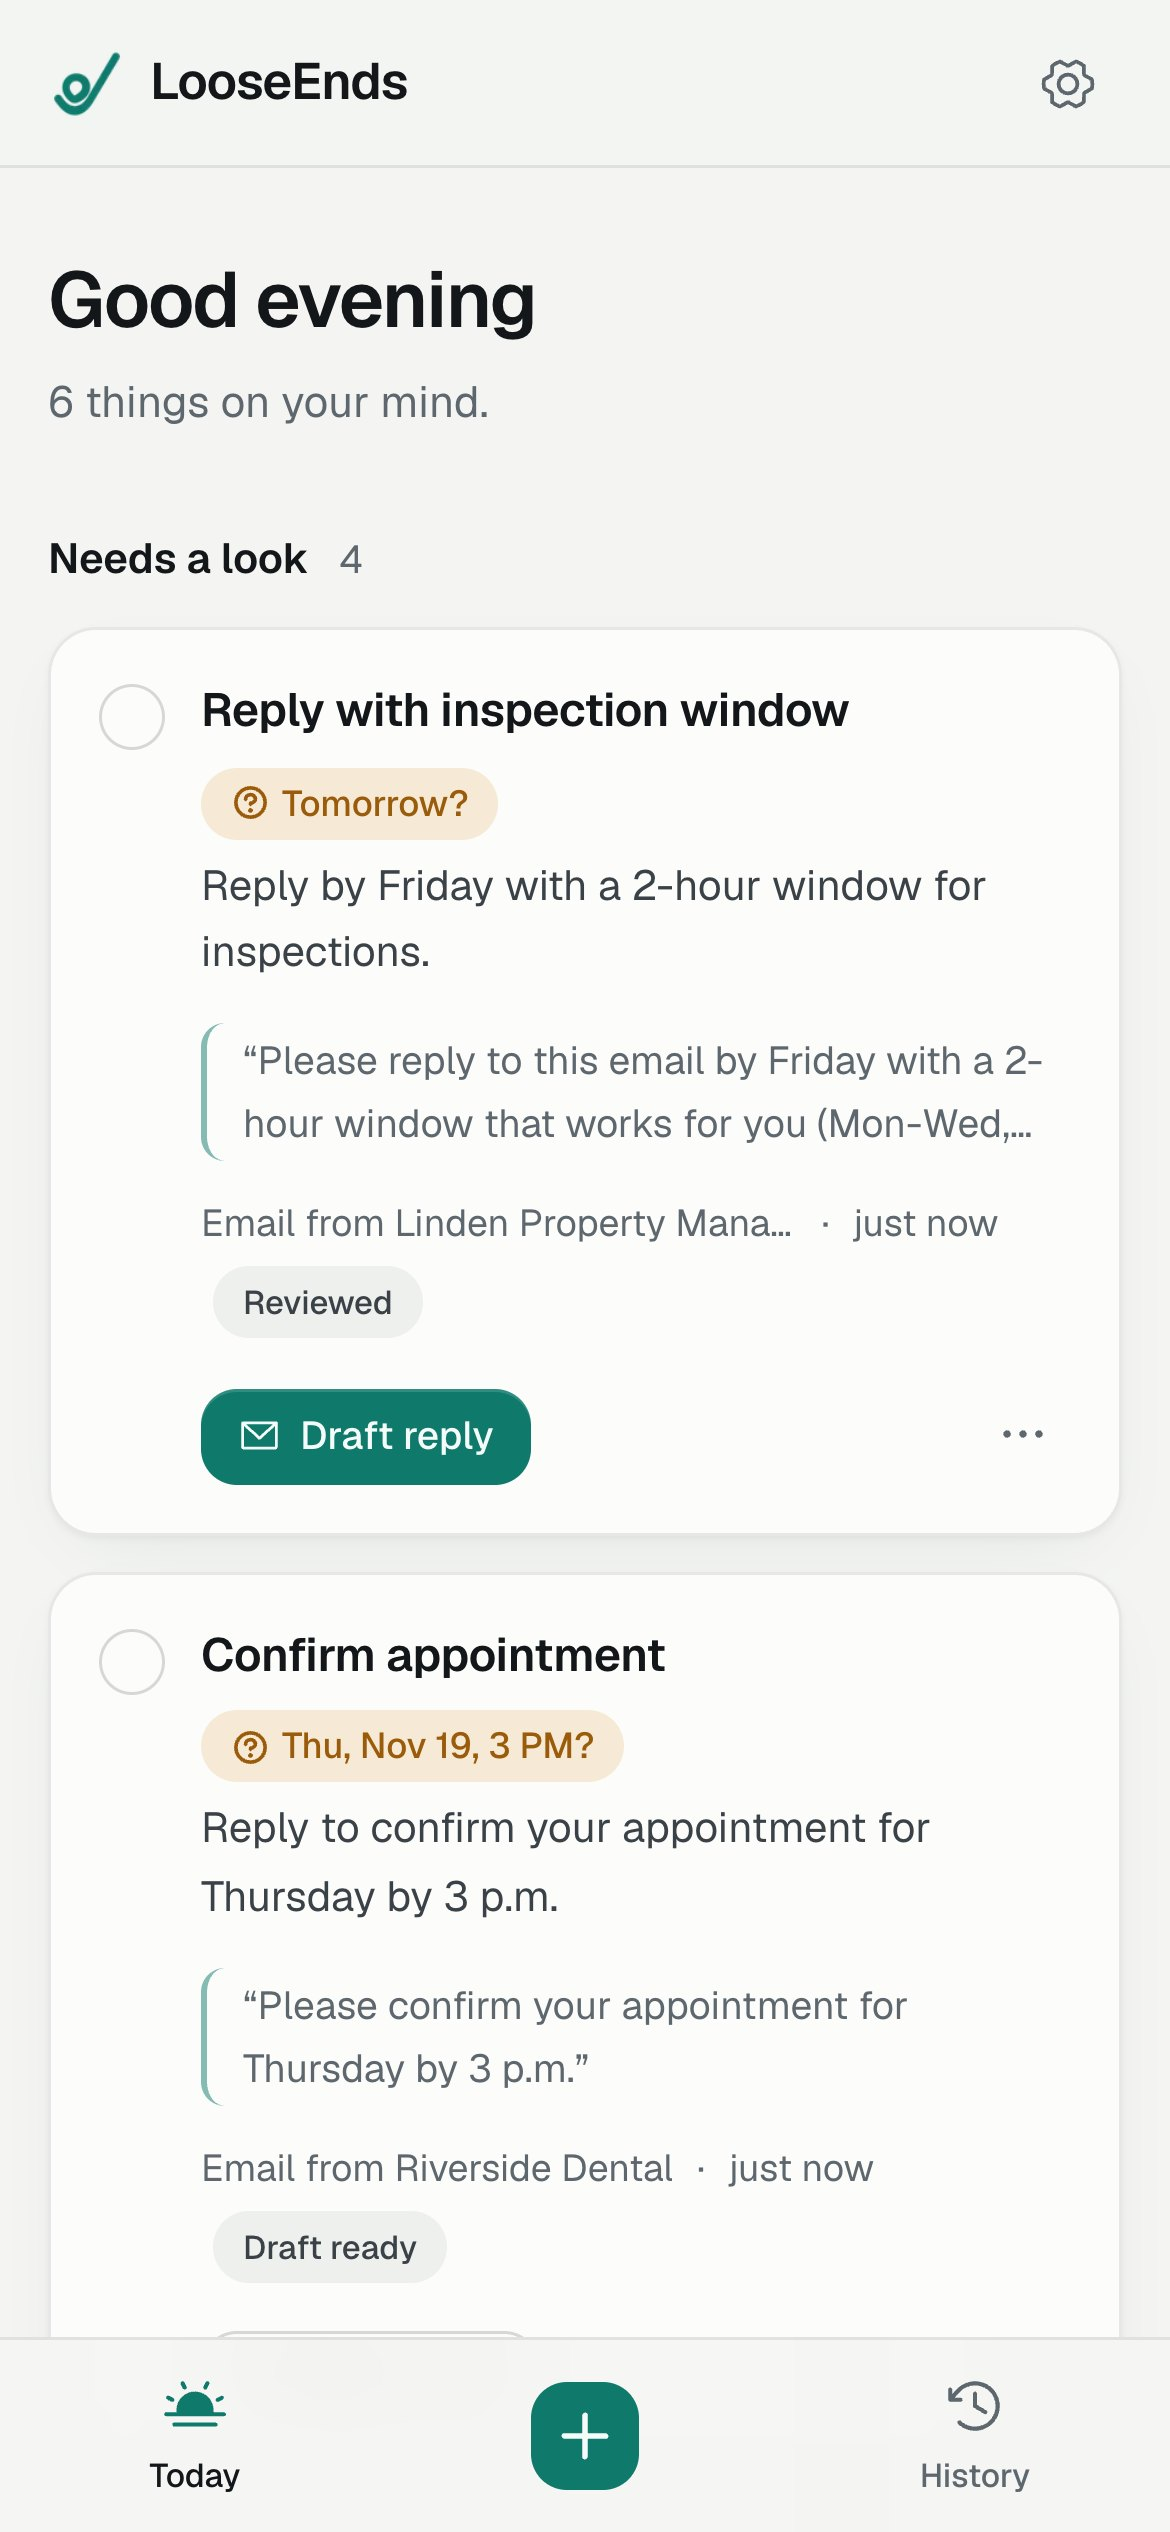
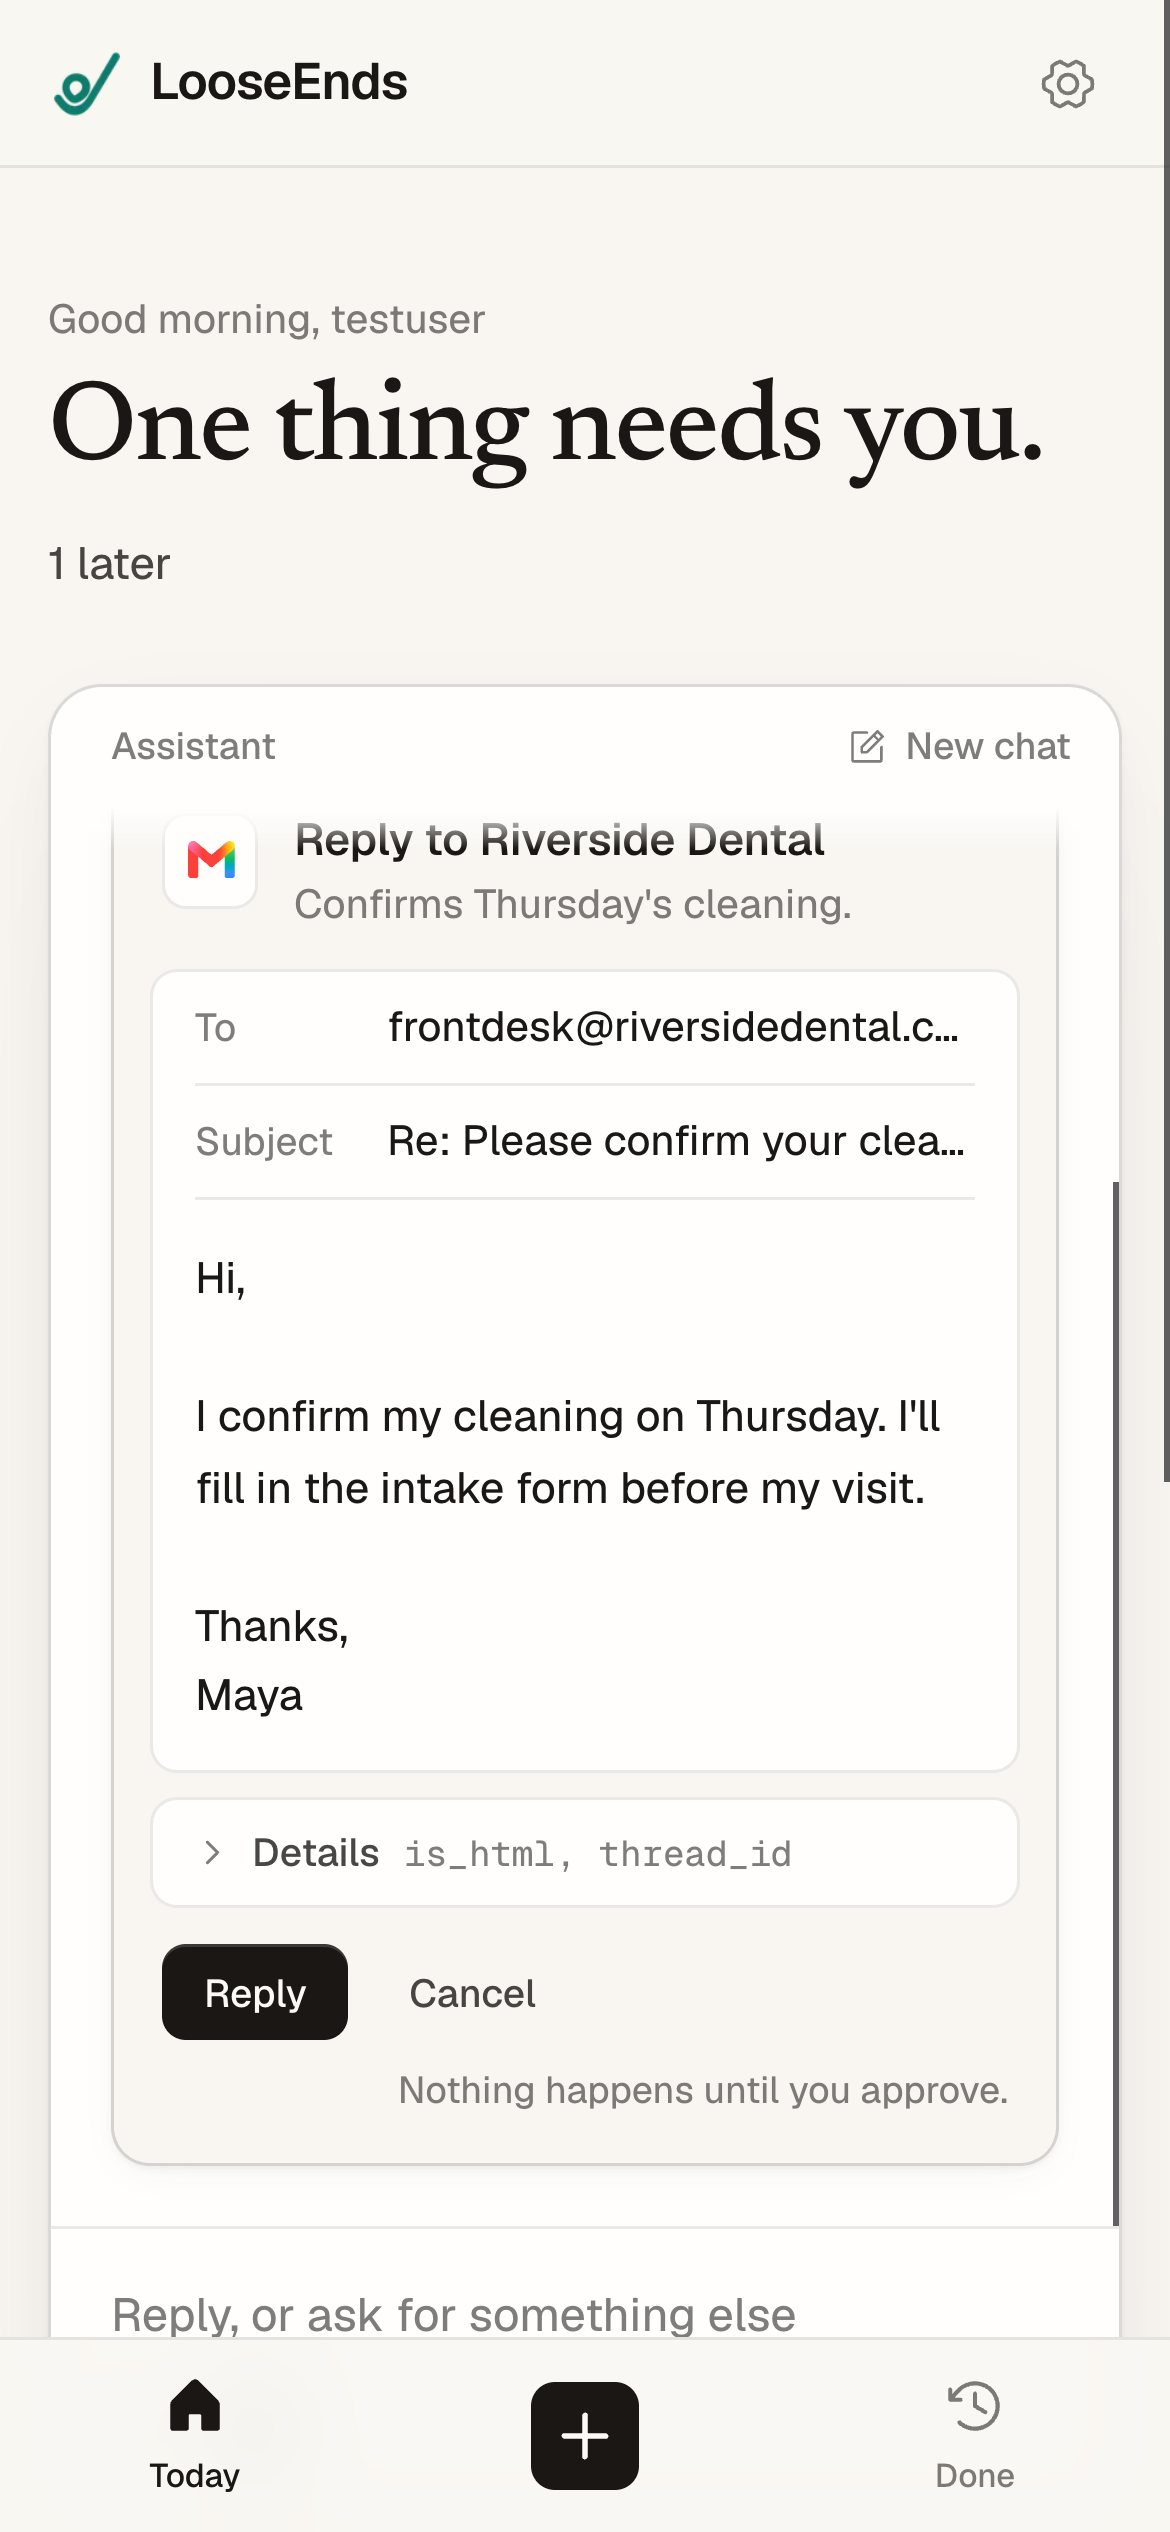
Docs and CI: README for the agent and eleven apps, fresh screenshots, AGENTS.md updates, GitHub Actions lint/build/tsc

diff --git a/README.md b/README.md
@@ -1,10 +1,10 @@
 # LooseEnds
 
-![LooseEnds: a short list of what to do, pulled from your messages, with a reply drafted and nothing sent](docs/images/hero.jpg)
+![LooseEnds: the assistant has drafted a reply from your inbox, and it waits for your approval](docs/images/agent.jpg)
 
 **The assistant for the everyday admin that slips through the cracks.**
 
-Paste an email, a text, a screenshot or a PDF. LooseEnds finds what you actually have to do, shows you the exact sentence it came from, and gets the next step ready: a reply to send, an event for your calendar, or a reminder. You stay in control. LooseEnds never sends, books, pays or deletes anything on its own.
+Paste an email, a text, a photo or a PDF, or connect Gmail. LooseEnds finds what you actually have to do, shows you the exact sentence it came from, and gets the next step ready: a reply, a calendar event, a reminder, or an action in one of your apps. Nothing is sent, posted, changed or deleted until you approve it.
 
 It's built for the small stuff that piles up:
 
@@ -12,56 +12,43 @@ It's built for the small stuff that piles up:
 - **Young professionals**: scheduling back-and-forth, renewals, service follow-ups.
 - **Everyone else**: appointments, returns, bills, bookings, the letter on the counter.
 
-Sign in with publik and drop in your first message. You can connect apps such as Gmail and Google Calendar when you want them.
-
 ## How it works
 
-### 1. Drop it in
-Paste a message, attach a screenshot or a PDF, or drag it onto the box. If you don't have one handy, tap an example.
+### 1. Drop it in, or ask
+Paste a message, attach a screenshot, a phone photo or a PDF, or connect Gmail and ask LooseEnds to check your inbox. Each task has a plain title, the next step, its due date, and the quote it came from.
 
-### 2. Check what it found
-Each task has a plain title ("Confirm appointment"), the next step, its due date, and the quote it came from. Keep it, fix it, or throw it out.
+### 2. Ask the assistant
+Type what you want in plain words: "What needs a reply?", "Clear out my inbox", "What's on my calendar this week?", "Reply to Riverside and confirm Thursday". The assistant reads your tasks and the apps you connected, answers, and adds or completes tasks.
 
-![Reviewing what LooseEnds found in a financial aid email](docs/images/review.jpg)
-
-### 3. Get the next step ready
-- **Draft a reply.** It writes a short reply using only what's in the message. Copy it, or open it in your mail app and send it yourself. If the reply needs something only you know, like which time slot works for you, it leaves a clear [blank] instead of guessing.
-- **Prepare a calendar event.** Download an `.ics` file or open it in Google Calendar.
-- **Set a reminder.** It shows up in LooseEnds when it's due, with a browser notification if you allow it.
-
-![A drafted reply that is clearly not sent](docs/images/draft.jpg)
+### 3. Approve what goes out
+When something would change the outside world (send an email, post a message, add an event, create or delete something in an app), the assistant puts an approval card in front of you instead. The card shows the readable parts to check and edit (To, Subject, the message) and, under **Details**, every other value that will be sent: ids, links, numbers and nested data. Nothing happens until you press the button. You can also cancel.
 
 ### 4. Come back tomorrow
-Your list is waiting: what needs a look, what's overdue, what's due this week. Finished and dismissed items move to History, along with a receipt of everything you copied, opened or downloaded.
+Your list is waiting: what needs you now, what's coming later. Finished and dismissed items move to Done, with a receipt of what you sent, copied or downloaded.
 
-![Today, with tasks grouped by what needs attention](docs/images/today.jpg)
+## Connected apps
+
+Connecting apps is optional. LooseEnds can connect **Gmail, Google Calendar, Outlook, Slack, Notion, Google Drive, Google Docs, Google Sheets, GitHub, Linear and Todoist**. Connections are made and held by [Composio](https://composio.dev); you can disconnect any app in Settings.
 
 ## Built to be trusted
 
 - **Every task shows its source.** Tap the quote to see the original message with the exact sentence highlighted.
-- **No invented dates.** "December 3, 2026" is taken as written. "Thursday by 3 p.m." is worked out and shown with a question mark until you confirm it. "Before your visit" is marked *Date unclear*. If a message gives no date, there isn't one.
-- **You approve external actions.** LooseEnds drafts replies and previews connected-app actions before you confirm them.
-- **Messages are data, not commands.** If an email tries to give the AI instructions ("ignore previous instructions and…"), LooseEnds flags it and ignores it.
-- **Duplicates are caught.** Paste the same message twice and it tells you, instead of doubling your list. Similar tasks get a "Merge" suggestion.
-- **Marketing is filtered.** Newsletters and sales emails are recognised as promotions, not obligations.
-- **You control your data.** Your list is stored in LooseEnds' database, with keys encrypted. Delete a task, a message, or everything from Settings.
-
-![The original message with the sentence behind the task highlighted](docs/images/source.jpg)
-
-## Light, dark and phone-sized
-
-LooseEnds follows your system theme and works at any window size.
+- **No invented dates.** "December 3, 2026" is taken as written. "Thursday by 3 p.m." is worked out and shown with a question mark until you confirm it. "Before your visit" is marked *Date unclear*.
+- **You approve external actions, and see all of them.** Approval cards show every argument the action sends, not just the friendly summary.
+- **Messages are data.** Text inside an email can try to give the AI instructions. LooseEnds treats it as content, flags obvious attempts, and can't act outside LooseEnds without your approval.
+- **Duplicates are caught**, and newsletters and sales emails are recognised as promotions, not obligations.
+- **You control your data.** Delete a task, a message, or everything from Settings. Delete everything also disconnects your apps. See the [privacy page](https://looseends-taupe.vercel.app/privacy) and [terms](https://looseends-taupe.vercel.app/terms).
 
 <p>
-  <img src="docs/images/today-dark.jpg" alt="LooseEnds in dark mode" width="68%">
-  <img src="docs/images/mobile.jpg" alt="LooseEnds at phone size" width="28%">
+  <img src="docs/images/gate.jpg" alt="The LooseEnds sign-in page" width="68%">
+  <img src="docs/images/mobile.jpg" alt="LooseEnds on a phone" width="28%">
 </p>
 
 ## AI and pricing
 
-LooseEnds uses **publik API**, so there's no key to paste: sign in with publik, connect your plan, and you're set. Linking your publik account gives $0.05 of free use once (about five AI requests at publik's published price of about $0.01 each); after that, a publik plan pays per use. Prefer your own key? Choose **Use my own key** at sign-in or in Settings; any OpenAI-compatible provider works.
+LooseEnds uses **publik API**: sign in with publik and AI runs on your own publik plan, so there's no key to paste. A new publik account includes $0.05 of free use; after that you need a publik plan (from $8/month), or choose **Use my own key** at sign-in or in Settings (any OpenAI-compatible provider).
 
-Your content is sent to the AI model only to find tasks and write drafts. publik does not train on requests.
+Your content is sent to the AI model through publik (or to your own provider) only to find tasks, write drafts and answer you. publik does not train on requests.
 
 ## Open LooseEnds
 
@@ -69,14 +56,29 @@ Open [LooseEnds](https://looseends-taupe.vercel.app) in your browser or use **Ge
 
 ## For developers
 
-Next.js 16 (App Router), Tailwind CSS v4, Motion, Neon Postgres (PGlite for local development) and publik API (`publik-balanced`). Hosted configuration uses `DATABASE_URL`, `APP_SECRET`, `COMPOSIO_API_KEY`, and `PUBLIK_APP_TOKEN`; see `.env.example`.
+Next.js 16 (App Router), Tailwind CSS v4, Motion, Neon Postgres (PGlite for local development), publik API and Composio. Hosted configuration uses `DATABASE_URL`, `APP_SECRET`, `COMPOSIO_API_KEY` and `PUBLIK_APP_TOKEN`; see `.env.example`.
 
 - `src/lib/server/publik.ts`: Sign in with publik, usage counting and publik API (adapted from publik's reference module).
+- `src/lib/server/gate.ts`, `src/app/api/gate/`: the sign-in gate. A visit only reads it; the session and publik install are created when "Sign in with publik" is clicked (POST).
+- `src/lib/server/agent.ts`: the assistant and its tools; writes become approval cards (`src/components/app/agent-ui.tsx`).
 - `src/lib/server/extract.ts`: task extraction and the server-side date and evidence rules.
 - `src/components/app/`: the app UI.
-- `scripts/mock-publik.mjs`: a local stand-in for publik, for testing without an account. Run it, then start the app with `PUBLIK_ORIGIN=http://localhost:4555 PUBLIK_APP_TOKEN=pat_mocktoken`.
 
-`PUBLIK_SELF_TEST=1 pnpm start` prints `publik self-test: ok looseends <version>` once publik answers.
+### Run it locally without accounts
+
+`scripts/mock-publik.mjs` stands in for publik and `scripts/mock-connector.mjs` for the app connections. Visiting a mock claim URL "signs in".
+
+```sh
+pnpm install && pnpm build
+node scripts/mock-publik.mjs &        # :4555; set MOCK_UPSTREAM_BASE_URL/MOCK_UPSTREAM_API_KEY to answer AI requests
+node scripts/mock-connector.mjs &     # :4666
+LOOSEENDS_DATA_DIR=/tmp/looseends PUBLIK_ORIGIN=http://localhost:4555 PUBLIK_APP_TOKEN=pat_mocktoken \
+  CONNECTOR_ORIGIN=http://localhost:4666 pnpm start
+```
+
+Leave `DATABASE_URL` unset to use PGlite in `LOOSEENDS_DATA_DIR`. `PUBLIK_SELF_TEST=1 pnpm start` prints `publik self-test: ok looseends <version>` once publik answers.
+
+CI (`.github/workflows/ci.yml`) runs `pnpm lint`, `pnpm build` and `npx tsc --noEmit` on every pull request and push to `main`.
 
 ## License
 

diff --git a/AGENTS.md b/AGENTS.md
@@ -12,9 +12,17 @@ This block is written and re-added by `next dev` — verify at `node_modules/nex
 - Base URL: https://publikhq.com/api/v1 (OpenAI Chat Completions, Responses, Anthropic Messages)
 - Models: publik-fast, publik-balanced, publik-smart only; never a vendor model name
 - Sign in with publik: the gate (`src/lib/server/gate.ts`, UI `src/components/app/gate.tsx`) runs before any app screen; it also sends usage telemetry (`src/lib/server/publik.ts`)
+- Gate: GET /api/gate never creates anything (cookieless visitors get the sign-in screen); POST /api/gate, sent when "Sign in with publik" is clicked, creates the session row and the publik install. The client polls GET every 3 s for a minute, then every 10 s, for at most 10 minutes
 - Key: one `pk_` from POST /installs per browser session, encrypted in the `sessions` row; never sent to the browser
 - App token: publik-app-token.txt (public by design, committed) or PUBLIK_APP_TOKEN
 - Runs as a hosted web app on Vercel; Neon Postgres with `DATABASE_URL`, PGlite only for local development/tests
 - 402: show error.message plus error.top_up_url only
+- Errors: API routes answer `{error:{code,message}}`; the client (`src/components/app/api.ts`) shows `message` as is (429 included) and maps non-JSON 413/429/5xx to plain sentences
+- Agent writes are approval cards (`src/components/app/agent-ui.tsx`): every argument must be visible on the card (readable fields, the rest under Details). Never hide an argument that will be sent
+- Connected apps (Composio): Gmail, Google Calendar, Outlook, Slack, Notion, Google Drive, Google Docs, Google Sheets, GitHub, Linear, Todoist. After connecting, the user lands on `/connected?app=<toolkit>`
+- Uploads: images are downscaled in the browser (`downscaleImage` in `src/components/app/capture.tsx`) before POST /api/capture; the multipart body is `file` (+ `force`) only
+- User-facing promises live in `src/app/privacy/page.tsx`, `src/app/terms/page.tsx`, the gate and Settings; keep them true when behaviour changes
+- Local runs: mocks in `scripts/` (see README); never point a local run at the production database or real Composio
+- CI: `.github/workflows/ci.yml` runs lint, build, then `tsc --noEmit` (needs the build's generated route types)
 - Never print or log a key
 - Docs: https://publikhq.com/llms.txt, https://publikhq.com/developers, https://publikhq.com/skills/api.md
